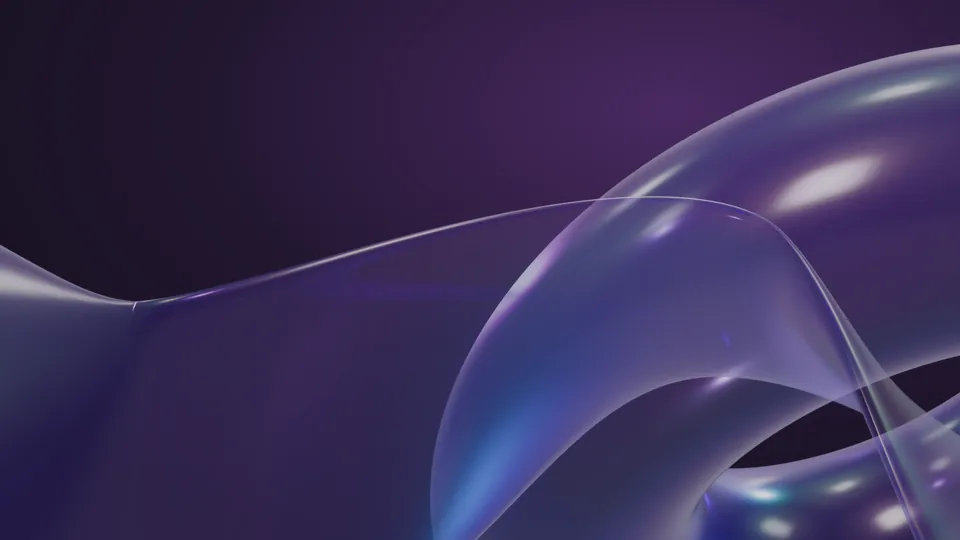
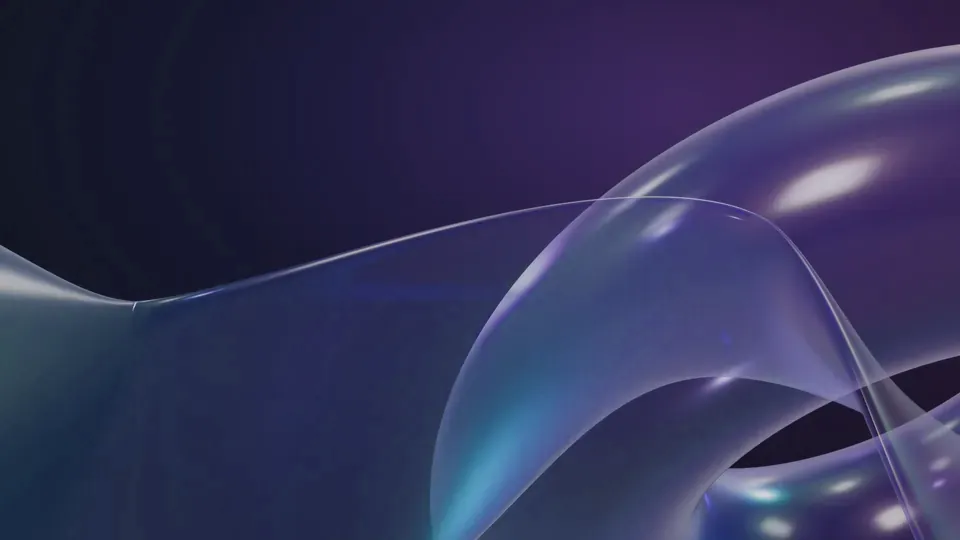
ТОПСЕРВИС (2005–2006, ROI 1850%), фон фиолетовый ↔ чернильно-синий, плотнее стекло плашек

Changed region(s): [[0.4375, 0.7111, 0.5938, 1.0]]

diff --git a/index.html b/index.html
@@ -197,6 +197,15 @@
       </div>
     </div>
     <div class="cases__list">
+      <article class="case case--lead" data-reveal>
+        <div class="case__meta"><span class="case__no">Большой проект</span><span class="case__logo case__logo--word">ТОПСЕРВИС</span><span class="case__type">B2B-дистрибуция фото- и электротоваров · в роли менеджера по развитию персонала · 2005–2006</span></div>
+        <h3 class="case__title">Обучение и развитие персонала, которые окупились <em>1850% годовых</em></h3>
+        <dl class="case__flow case__flow--3">
+          <div><dt>Ситуация</dt><dd>Московская b2b-компания: за время проекта — со 100 до 250 сотрудников, дилерская сеть — 540 компаний в 76 городах. Между отделами — склоки: бухгалтерия предъявляет претензии продажам за документы, менеджеры плохо знают продукт, аттестация — формальность для повышения зарплаты.</dd></div>
+          <div><dt>Что сделано</dt><dd>Цели компании разложены до планов работ сотрудников. Аттестация с оценкой 360° и мотивационным интервью, внутреннее и внешнее обучение, тренинги и семинары, кадровый резерв, подготовка внутренних преподавателей, оценка эффективности обучения.</dd></div>
+          <div><dt>Результат</dt><dd><b class="case__big">ROI 1850<i>%</i></b> годовых — соотношение вложений в проект за 8 месяцев и полученной выгоды, по отчёту по проекту. На совещаниях топ-менеджмента перестала подниматься постоянная проблема претензий одних отделов к другим, выросла управляемость.</dd></div>
+        </dl>
+      </article>
       <article class="case" data-reveal>
         <div class="case__meta"><span class="case__no">Проект 01</span><span class="case__logo"><img src="assets/img/logo-vhm.png" width="143" height="22" alt="ВНИИХОЛОДМАШ" loading="lazy"></span><span class="case__type">Консалтинговый проект · 11.2024–03.2025</span></div>
         <h3 class="case__title">Команда изменений для научно-производственного предприятия</h3>
@@ -391,7 +400,7 @@
   </div>
   <div class="wrap experience" id="experience">
     <div class="experience__head" data-reveal><p class="eyebrow">Опыт</p><h3>25+ лет: от тренера учебного центра до собственника и практика ИИ</h3></div>
-    <ol class="timeline" data-reveal><li><span class="tl__y">2000–2002</span><div><b>Владивосток</b><p>Тренер учебных центров: программы по продажам и имиджу.</p></div></li><li><span class="tl__y">2002–2005</span><div><b>Москва, розница</b><p>Учебные центры «Arbor Mundi» и сети «Гастроном-Эконом» (11 регионов). В Arbor Mundi розничные продажи выросли <b class="tl__x">×4</b>.</p></div></li><li><span class="tl__y">2005–2007</span><div><b>Опт и дистрибуция</b><p>Системы обучения, оценки и мотивации персонала; антикризисный проект: чистая прибыль выросла <b class="tl__x">×10</b>.</p></div></li><li><span class="tl__y">2007–2008</span><div><b>Гроссмарт</b><p>Заместитель директора по персоналу: 14 регионов, рост с 6 до 10 тыс. сотрудников.</p></div></li><li><span class="tl__y">2008–2016</span><div><b>Консалтинг</b><p>Оценка руководителей и перестройка процессов в 5 компаниях: инжиниринг, дистрибуция, розница, оптика.</p></div></li><li><span class="tl__y">с 2011</span><div><b>Color Me Beautiful</b><p>Собственник и генеральный директор дистрибьютора.</p></div></li><li><span class="tl__y">с 2025</span><div><b>Внедрение ИИ</b><p>Нейропродавец для ГлавПос, свой контент-завод, автоматизация на n8n.</p></div></li></ol>
+    <ol class="timeline" data-reveal><li><span class="tl__y">2000–2002</span><div><b>Владивосток</b><p>Тренер учебных центров: программы по продажам и имиджу.</p></div></li><li><span class="tl__y">2002–2005</span><div><b>Москва, розница</b><p>Учебные центры «Arbor Mundi» и сети «Гастроном-Эконом» (11 регионов). В Arbor Mundi розничные продажи выросли <b class="tl__x">×4</b>.</p></div></li><li><span class="tl__y">2005–2007</span><div><b>Опт и дистрибуция</b><p>ТОПСЕРВИС: обучение и развитие персонала, ROI <b class="tl__x">1850%</b> годовых. Затем антикризисный проект в дистрибуции: чистая прибыль выросла <b class="tl__x">×10</b>.</p></div></li><li><span class="tl__y">2007–2008</span><div><b>Гроссмарт</b><p>Заместитель директора по персоналу: 14 регионов, рост с 6 до 10 тыс. сотрудников.</p></div></li><li><span class="tl__y">2008–2016</span><div><b>Консалтинг</b><p>Оценка руководителей и перестройка процессов в 5 компаниях: инжиниринг, дистрибуция, розница, оптика.</p></div></li><li><span class="tl__y">с 2011</span><div><b>Color Me Beautiful</b><p>Собственник и генеральный директор дистрибьютора.</p></div></li><li><span class="tl__y">с 2025</span><div><b>Внедрение ИИ</b><p>Нейропродавец для ГлавПос, свой контент-завод, автоматизация на n8n.</p></div></li></ol>
     <p class="edu" data-reveal><span>Образование и квалификация</span>Психолог, педагог и тренинг-менеджер: три диплома с отличием, переподготовка ТГУ, с 2025 года — практика внедрения ИИ и n8n.</p>
   </div>
   <div class="wrap">

diff --git a/assets/css/style.css b/assets/css/style.css
@@ -934,3 +934,51 @@ details p{font-size:17.5px}
 .pipe__steps span{font-size:14px}
 @media (max-width:600px){.node small{font-size:12.5px;letter-spacing:.04em}}
 .stats dd{hyphens:auto;-webkit-hyphens:auto;overflow-wrap:break-word}
+
+/* ---------- ТОПСЕРВИС: большой проект ---------- */
+.case--lead{grid-template-columns:1fr;padding:40px;border-color:transparent;box-shadow:var(--lg-panel);background:radial-gradient(70% 90% at 90% 0%,rgba(140,107,192,.22),transparent 60%),linear-gradient(150deg,rgba(58,33,72,.6),rgba(24,18,33,.7))}
+.case--lead .case__title{grid-column:1;font-size:clamp(30px,3.2vw,44px);max-width:900px}
+.case--lead .case__flow{grid-column:1;grid-row:auto;border-left:0;border-top:1px solid var(--hair);padding-top:24px}
+.case--lead .case__flow>div:first-child{padding-left:0}
+.case--lead .case__logo--word{font:600 22px/1 var(--sans);letter-spacing:.14em;color:var(--lilac-2);opacity:.85}
+.case__big{display:block;font:400 clamp(40px,4vw,56px)/1 var(--serif);color:var(--ink);margin-bottom:10px;white-space:nowrap}
+.case__big i{font-size:.6em;color:var(--lilac)}
+.case--lead .case__meta{flex-direction:row;flex-wrap:wrap;align-items:center;gap:10px 22px}
+@media (max-width:600px){.case--lead{padding:26px 22px}}
+
+/* ---------- v7: фон фиолетовый ↔ чернильно-синий, плотнее стекло плашек ---------- */
+:root{
+  --bg:#090a18; --bg-2:#0c0f24; --surface:#131532; --surface-2:#1a1b3e;
+  --ink-1:#0b1030; --ink-2:#111a46; --vio-1:#1e1236; --vio-2:#2a1650;
+  --hair:rgba(190,200,255,.10); --hair-2:rgba(196,186,255,.24);
+  --glass:rgba(20,22,52,.55);
+  --lg-body:radial-gradient(70% 70% at 30% 125%,rgba(110,140,255,.34),transparent 70%),radial-gradient(70% 70% at 75% 125%,rgba(190,130,240,.26),transparent 70%),linear-gradient(180deg,rgba(255,255,255,.15) 0%,rgba(255,255,255,.04) 46%,rgba(255,255,255,0) 62%),linear-gradient(165deg,rgba(44,42,92,.8),rgba(18,18,44,.88));
+  --lg-panel:inset 0 1px 0 rgba(255,255,255,.22),inset 0 0 0 1px rgba(196,190,255,.14),inset 0 -1px 0 rgba(140,160,255,.34),inset 0 22px 40px -30px rgba(255,255,255,.10),inset 0 -50px 70px -54px rgba(150,130,255,.45),0 46px 80px -50px rgba(0,0,10,.95),-34px 46px 90px -62px rgba(80,120,255,.50),34px 46px 90px -62px rgba(190,120,240,.40);
+}
+body{background:radial-gradient(60% 45% at 0% 18%,rgba(17,26,70,.75),transparent 72%) fixed,radial-gradient(55% 45% at 100% 55%,rgba(42,22,80,.62),transparent 72%) fixed,radial-gradient(70% 50% at 20% 100%,rgba(30,18,54,.7),transparent 72%) fixed,linear-gradient(180deg,#090a18 0%,#0a0c1f 50%,#0a0918 100%) fixed}
+.hero__bg{background:radial-gradient(70% 70% at 82% 18%,#2a1650 0%,rgba(42,22,80,0) 70%),radial-gradient(70% 80% at 55% 70%,#111a46 0%,rgba(17,26,70,0) 70%),linear-gradient(180deg,#0b1030,#090a18 80%)}
+.hero__bg::after{background:linear-gradient(96deg,rgba(8,9,22,.82) 0%,rgba(8,9,22,.5) 38%,rgba(8,9,22,.05) 65%),linear-gradient(0deg,var(--bg) 0%,rgba(9,10,24,0) 30%)}
+.header.is-scrolled{background:rgba(12,14,36,.62)}
+.principle{background:linear-gradient(180deg,rgba(11,16,48,.55),rgba(30,18,54,.55))}
+.steps{background:linear-gradient(160deg,rgba(17,26,70,.45),rgba(30,18,54,.45))}
+.contact{background:radial-gradient(60% 70% at 0% 0%,rgba(17,26,70,.6),transparent 70%),linear-gradient(180deg,rgba(9,10,24,.4) 0%,rgba(30,18,54,.75) 100%)}
+.contact__glow{background:radial-gradient(circle,rgba(90,110,230,.28),rgba(140,107,192,.18) 35%,transparent 62%)}
+.footer{background:#080917}
+.nav{background:rgba(9,10,24,.97)}@media (min-width:901px){.nav{background:none}}
+.field select option{background:#151838}
+.read__img{background:#111a46}
+/* 3D-формы: половина — в чернильно-синий */
+.deco--hero,.deco--srv,.deco--contact,.deco--about{filter:blur(1.5px) hue-rotate(-55deg) saturate(1.1)}
+.deco--ai,.deco--steps,.deco--ai2,.deco--contact2{filter:blur(2.5px) hue-rotate(-8deg)}
+/* плашки: толще стекло */
+.tile,.card:not(.card--feature),.read,.case,.tg-card,.form,.proof,.thanks{border-color:transparent;box-shadow:var(--lg-panel)}
+.tile,.card:not(.card--feature),.read,.case,.proof{
+  background:linear-gradient(90deg,rgba(255,255,255,0),rgba(255,255,255,.55),rgba(255,255,255,0)) top center/88% 1px no-repeat,
+             linear-gradient(90deg,rgba(110,150,255,0),rgba(110,150,255,.85),rgba(190,130,255,.85),rgba(190,130,255,0)) bottom center/76% 1.5px no-repeat,
+             linear-gradient(180deg,rgba(255,255,255,.075) 0%,rgba(255,255,255,0) 26%),
+             linear-gradient(160deg,rgba(32,34,78,.62),rgba(20,16,44,.68));
+  backdrop-filter:blur(20px) saturate(1.35);-webkit-backdrop-filter:blur(20px) saturate(1.35)}
+.tile--lead,.case--lead{background:linear-gradient(90deg,rgba(255,255,255,0),rgba(255,255,255,.6),rgba(255,255,255,0)) top center/88% 1px no-repeat,linear-gradient(90deg,rgba(110,150,255,0),rgba(110,150,255,.9),rgba(190,130,255,.9),rgba(190,130,255,0)) bottom center/76% 1.5px no-repeat,radial-gradient(70% 90% at 90% 0%,rgba(120,100,230,.22),transparent 60%),linear-gradient(180deg,rgba(255,255,255,.08) 0%,rgba(255,255,255,0) 26%),linear-gradient(150deg,rgba(44,26,84,.62),rgba(17,22,58,.68))}
+.form{background:linear-gradient(90deg,rgba(255,255,255,0),rgba(255,255,255,.5),rgba(255,255,255,0)) top center/88% 1px no-repeat,linear-gradient(90deg,rgba(110,150,255,0),rgba(110,150,255,.8),rgba(190,130,255,.8),rgba(190,130,255,0)) bottom center/76% 1.5px no-repeat,linear-gradient(180deg,rgba(255,255,255,.07) 0%,rgba(255,255,255,0) 18%),rgba(20,20,50,.6);backdrop-filter:blur(20px) saturate(1.3);-webkit-backdrop-filter:blur(20px) saturate(1.3)}
+.case:hover,.card:hover,.read:hover{box-shadow:var(--lg-panel),0 0 0 1px rgba(196,190,255,.22)}
+.read__img{margin:-26px -26px 8px}

diff --git a/assets/js/mesh.js b/assets/js/mesh.js
@@ -25,15 +25,15 @@ void main(){
   vec2 q=vec2(fbm(p*1.4+T),fbm(p*1.4+vec2(5.2,1.3)-T));
   vec2 w=vec2(fbm(p*1.2+2.2*q+vec2(1.7,9.2)+T*1.3),fbm(p*1.2+2.2*q+vec2(8.3,2.8)-T));
   float f=fbm(p*1.1+2.6*w+(m-.5)*.25);
-  vec3 c0=vec3(.071,.051,.094);  /* ground  #120d18 */
-  vec3 c1=vec3(.227,.129,.282);  /* plum    #3a2148 */
-  vec3 c2=vec3(.545,.376,.690);  /* violet  */
-  vec3 c3=vec3(.725,.541,.663);  /* rose    #b98aa9 */
-  vec3 c4=vec3(.616,.690,1.0);   /* blue, pointwise */
-  vec3 col=mix(c0,c1,smoothstep(.15,.65,f));
-  col=mix(col,c2,smoothstep(.55,.95,f*length(q))*.75);
-  col=mix(col,c3,smoothstep(.62,.9,w.x)*.35);
-  col=mix(col,c4,smoothstep(.78,.98,w.y*f)*.18);
+  vec3 c0=vec3(.035,.039,.094);  /* near-black base #090a18 */
+  vec3 cN=vec3(.075,.118,.330);  /* ink-blue #111a46 */
+  vec3 cV=vec3(.165,.086,.314);  /* deep violet #2a1650 */
+  vec3 c2=vec3(.470,.400,.760);  /* lilac-violet */
+  vec3 c4=vec3(.420,.540,1.0);   /* blue light */
+  vec3 c1=mix(cN,cV,smoothstep(.35,.85,uv.x*.55+uv.y*.35+(q.x-.5)*.6+.08*sin(T*3.+p.y)));
+  vec3 col=mix(c0,c1,smoothstep(.12,.62,f));
+  col=mix(col,c2,smoothstep(.58,.95,f*length(q))*.6);
+  col=mix(col,c4,smoothstep(.7,.98,w.y*f)*.28);
   /* keep the copy side dark, let colour live behind the portrait */
   col*=mix(.55,1.15,smoothstep(.05,.85,uv.x));
   col*=mix(.6,1.,smoothstep(0.,.5,uv.y));

diff --git a/assets/css/article.css b/assets/css/article.css
@@ -80,3 +80,5 @@
 .art__table thead th{font-size:13px;letter-spacing:.08em}
 @media (max-width:760px){.art__body{font-size:18px}}
 @media (max-width:600px){.art-page .header__cta{font-size:14px}}
+.art-cta--final{background:radial-gradient(70% 90% at 100% 0%,rgba(42,22,80,.7),transparent 65%),linear-gradient(150deg,rgba(17,26,70,.7),rgba(20,16,44,.72))}
+.art-cta--mid{background:linear-gradient(120deg,rgba(110,140,255,.08),rgba(190,130,255,.06))}
